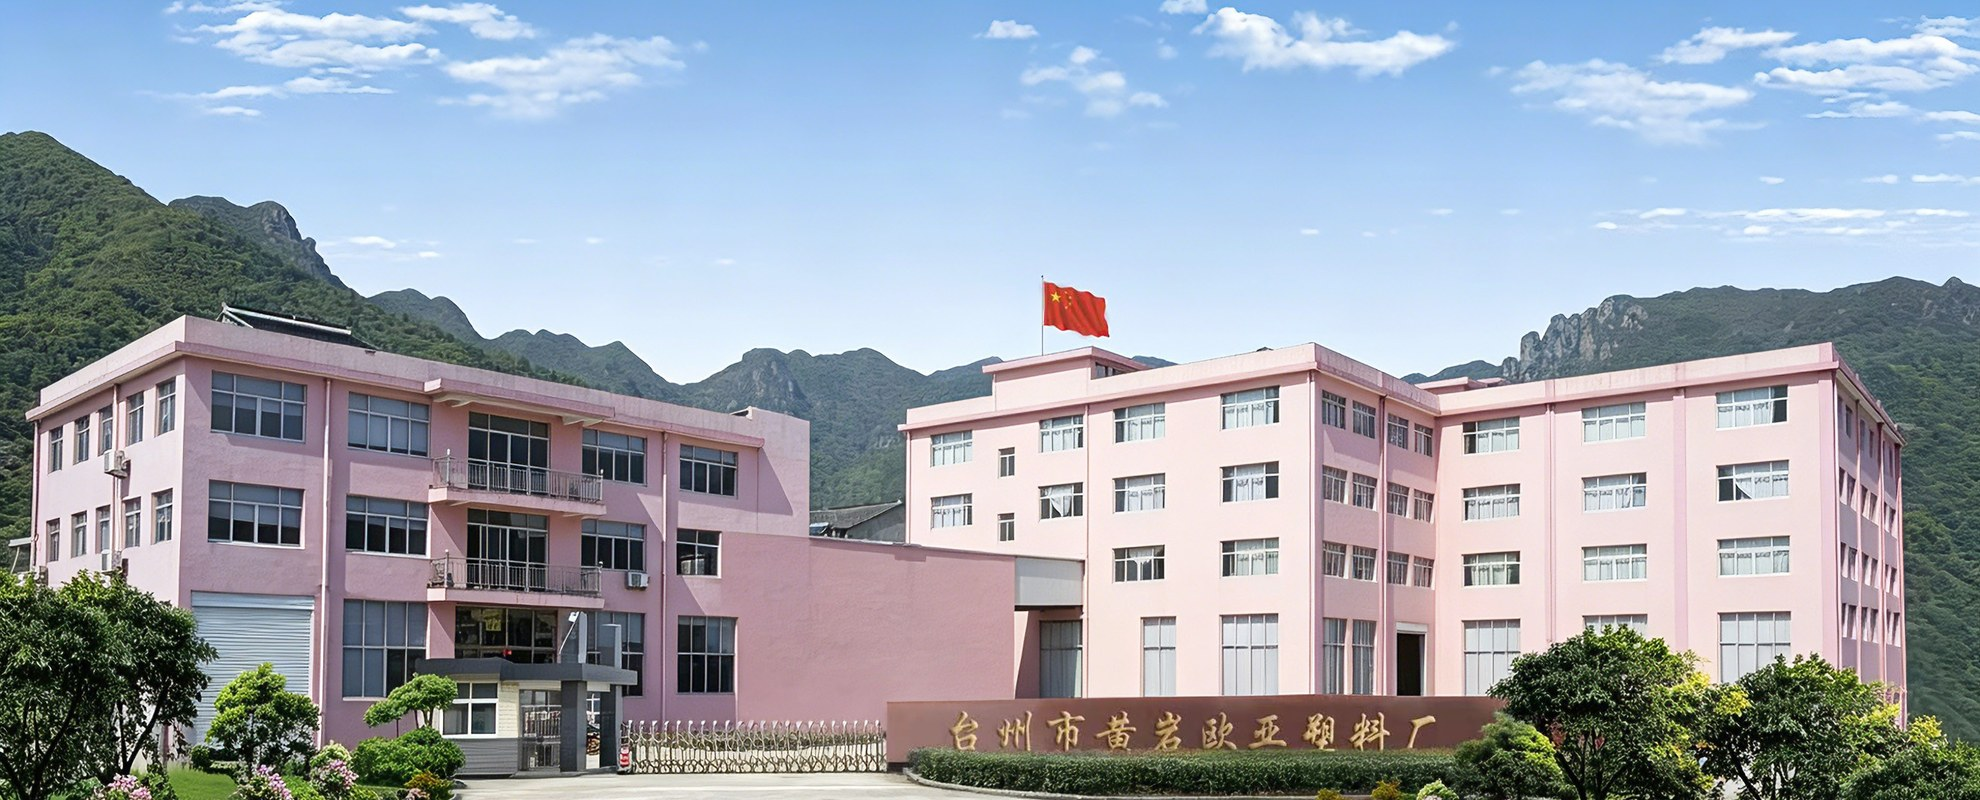
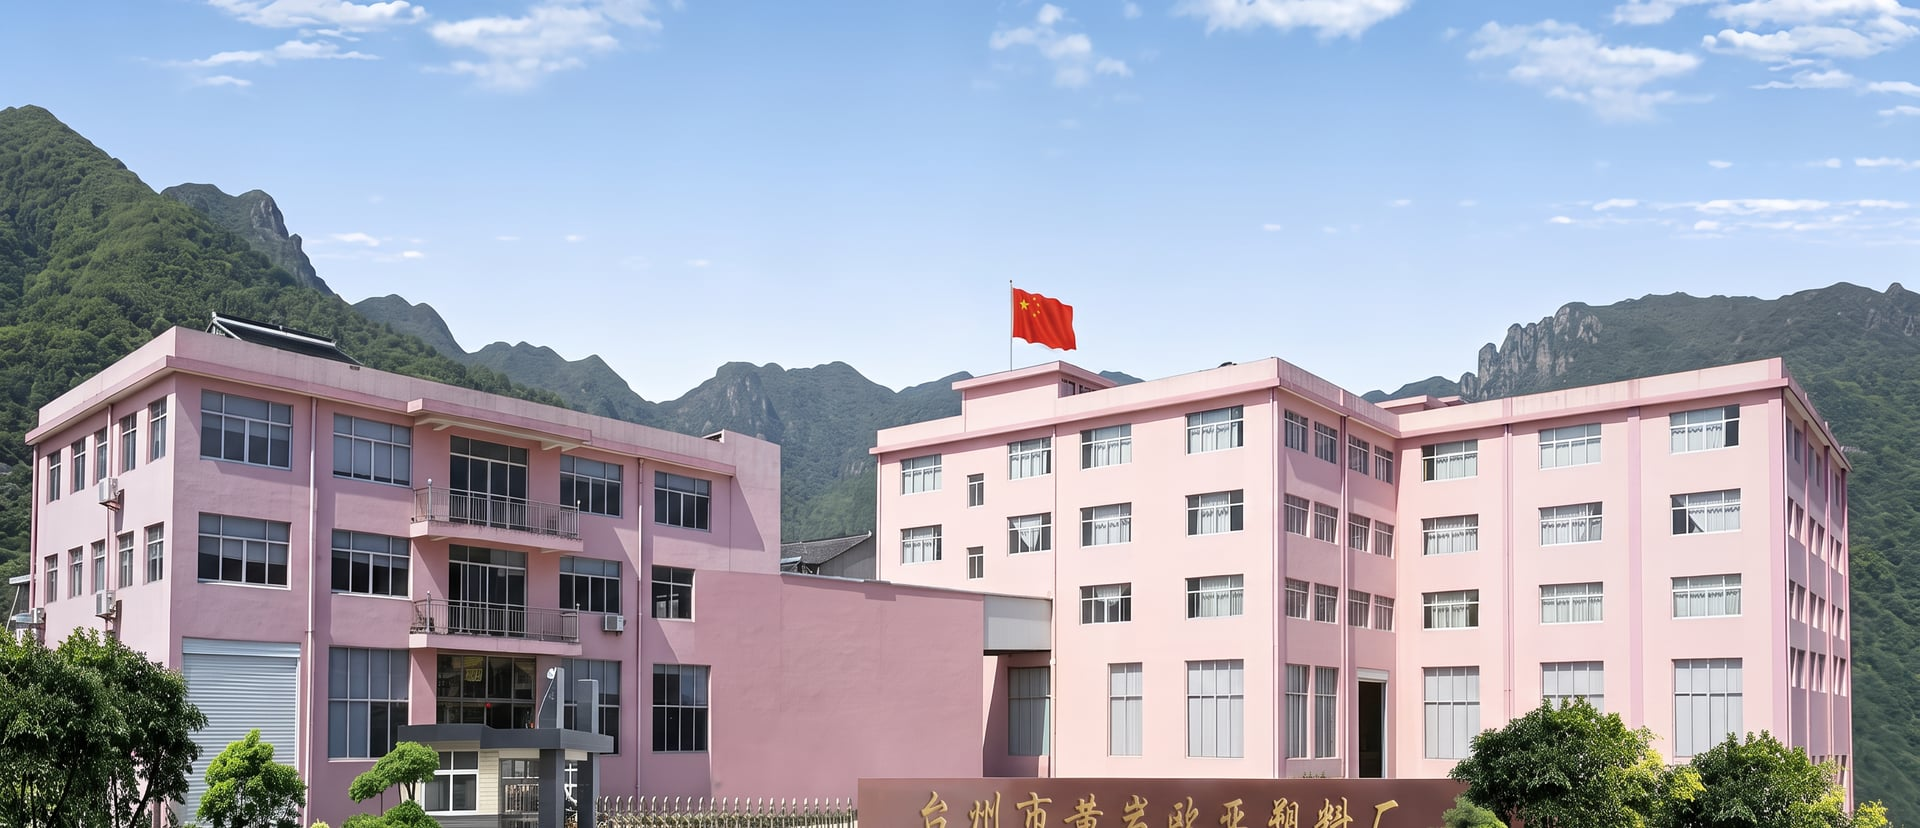
-fixed： 切换轮播图比例

diff --git a/app/components/home/HeroCarousel.vue b/app/components/home/HeroCarousel.vue
@@ -210,7 +210,8 @@ onUnmounted(() => {
 @import '~/assets/css/variables.less';
 
 .hero-carousel {
-  background: @primary-color;
+  /* 与横幅 letterbox 同色，避免切页时露出品牌红底 */
+  background: #f7f3ee;
   /* 贴紧导航，避免亚像素缝隙 */
   margin-top: -1px;
 }
@@ -247,6 +248,7 @@ onUnmounted(() => {
   display: flex;
   align-items: center;
   justify-content: center;
+  background: #f7f3ee;
 
   /* 平板/手机：按横幅比例完整展示，避免 cover 裁掉左右文案与产品 */
   @media (max-width: @breakpoint-tablet) {
@@ -267,6 +269,39 @@ onUnmounted(() => {
   @media (max-width: @breakpoint-tablet) {
     object-fit: contain;
     background: #f7f3ee;
+  }
+}
+
+/* 有 HTML 叠层的最后一页：背景铺满，文案在框内紧凑排布 */
+.carousel-slide:not(.is-image-only) {
+  @media (max-width: @breakpoint-tablet) {
+    .slide-bg {
+      object-fit: cover;
+    }
+
+    .slide-content {
+      padding: 0.55rem 2.75rem;
+    }
+
+    .slide-title {
+      font-size: 1.15rem;
+      margin-bottom: 0.25rem;
+    }
+
+    .slide-subtitle {
+      font-size: 0.72rem;
+      margin-bottom: 0.45rem;
+      line-height: 1.3;
+      display: -webkit-box;
+      -webkit-line-clamp: 2;
+      -webkit-box-orient: vertical;
+      overflow: hidden;
+    }
+
+    .slide-cta {
+      padding: 0.35rem 0.85rem;
+      font-size: 0.78rem;
+    }
   }
 }
 
